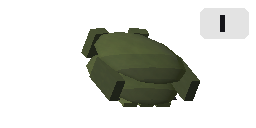
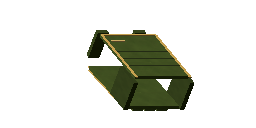
Lote 14: mãos na arma, kit deitado, cores de guerra sem roxo, paraquedas e luz fria
- Mãos: o pulso gira junto com a arma e os dedos fecham no cabo/guarda-mão; na pistola o pulso
  fica atrás do cabo, a mão de apoio por baixo e os cotovelos pra baixo (antes a mão ficava torta)
- Tremida do tiro: pistola e submetralhadora menor; fuzis, escopetas e snipers voltam ao tranco cheio
- Cura deitado com animação (enrolando a faixa na frente do rosto)
- Só 2 tipos de cura: bandagem e kit médico (sai o energético do loot)
- Barra de vida fina, mais curta e sem borda; colete numa linha fininha em cima
- Níveis sem roxo/azul: destaque cáqui, verde e cinza-aço; equipamento de verde-oliva a cinza
  (ícones refeitos)
- Personagem um pouco mais lento, pulo mais lento (gravidade menor), gira mais fácil no chão
- Paraquedas mais difícil de virar, balança mais com o vento; velame mais estreito e mais gordinho
- Luz fria e clara (sem amarelado), cor um pouco lavada de guerra
- Versão 0.18.0

Claude-Session: https://claude.ai/code/session_019y4tuguR5oe7omZbV1imRB

Changed region(s): [[0.3125, 0.2188, 0.7812, 0.875], [0.7812, 0.0625, 1.0, 0.3125]]

diff --git a/README.md b/README.md
@@ -20,7 +20,7 @@ Battle royale em 3D para Android, no estilo dos primeiros battle royale de celul
 - Árvores (folhas do Poly Haven, CC0): tronco reto e grosso (dá pra se proteger atrás) e copa falhada de cartões de folhas, leves pro celular; três tipos + moita
 - Avião bimotor com camuflagem e hélices girando (OpenGameArt, CC0)
 - Vida 200; colete, capacete, mochila, coronha e carregador com nível 1, 2 e 3 (cor diferente no chão e no ícone); dano de queda só em queda alta
-- Granada: segure o botão pra tirar o pino (bipes contando), solte pra jogar; se segurar demais explode na mão; o X guarda de volta. Energético, kits e bandagens
+- Granada: segure o botão pra tirar o pino (bipes contando), solte pra jogar; se segurar demais explode na mão; o X guarda de volta. Kit médico e bandagem
 - Cenário de começo de guerra: casas com rombo na parede, fuligem e telhado queimado, paredes encardidas, ruas com buracos, rachaduras e entulho, barricadas de madeira em X, caixotes militares com arma em cima
 - Cinco cidades bem no alto de morro, com rampa longa e suave cheia de cobertura (pedras, sacos de areia, barricadas, caixotes, carcaças) pra trocar tiro subindo e descendo
 - Duas cidades com chão de cimento; casas de laje com escada maciça por fora pra subir no teto
@@ -28,7 +28,7 @@ Battle royale em 3D para Android, no estilo dos primeiros battle royale de celul
 - Cada cidade com a sua cara (cor das paredes, telhado e um marco no meio: monumento, moinho, ônibus ou caixa d'água) e mais casas
 - Casas nunca ficam tortas: o chão fica plano embaixo delas e de todos os objetos; cercas acompanham o terreno
 - Armas detalhadas (Ultimate Gun Pack da Quaternius, CC0) com luneta, holográfica e silenciador encaixados; dano cai com a distância (SMG e 12 fortes de perto e fracas de longe)
-- Colete, capacete e mochila redesenhados, com cor por nível: 1 verde-oliva, 2 azul, 3 roxo; mochila militar arredondada (lona estufada, tampa, bolsos e fitas)
+- Colete, capacete e mochila redesenhados, com cor por nível (cores de guerra): 1 verde-oliva, 2 verde-acinzentado, 3 cinza; mochila militar arredondada (lona estufada, tampa, bolsos e fitas)
 - Bots se escondem atrás de caixote, muro, carro ou árvore na troca de tiro (abaixam pra recarregar/curar e levantam pra atirar) e erram um pouco mais
 - Animações: corrida com as pernas mexendo até pulando, recarga (inclina a arma e troca o pente), kit médico (enrolando o braço)
 - Arma baixa e atravessada na frente do corpo sem atirar; saque animado (a arma vem das costas e engatilha) com som de ferrolho de verdade; arma vazia recarrega sozinha ao sacar; tiros mais lentos e mais fortes, com tranco na arma e na câmera
@@ -41,7 +41,7 @@ Battle royale em 3D para Android, no estilo dos primeiros battle royale de celul
 - De longe o mapa aparece inteiro em versão simples (blocos de casas e árvores, serra no horizonte), leve pro celular
 - Sem coice na tela; segurando o dedo o tiro abre em 2-3 s (com colete/capacete nível 3, um pouco mais devagar) e a mira abre junto. Mirando, a câmera vai pra primeira pessoa (com ou sem luneta)
 - Bots lootam e brigam pouco no começo e ficam agressivos quando sobra pouca gente (final cheio)
-- Luz de meio da tarde (~15:30): sol mais baixo e quente, cores menos vivas
+- Luz fria e clara de guerra (sem amarelado), cores um pouco lavadas
 - Clima de guerra com cor: céu azul com bruma de poeira, verde vivo com manchas queimadas, sombras fundas, colunas de fumaça no horizonte e sons de guerra ao longe (explosões, metralhadora, sirene, jato passando, vento)
 - Lugares novos: Aeródromo Carcará (pista de pouso, hangares em arco, torre de controle, tanques de combustível), Pátio dos Galpões (galpões com mezanino e escada, contêineres), Acampamento Sentinela (tendas, casamatas, canhões, ninho de metralhadora, trincheira, arame farpado), Brejo Seco com palafitas de madeira em cima da terra seca ligadas por passarelas, e Chapada Ventania bem no alto (subida longa e suave a pé e de carro) com praça elevada de concreto, escadas e passarela
 - Marcas da guerra no mapa todo: postos de controle nas rodovias, tanques queimados, crateras, trincheiras, arame farpado, ouriços de aço, casamatas e canhões
